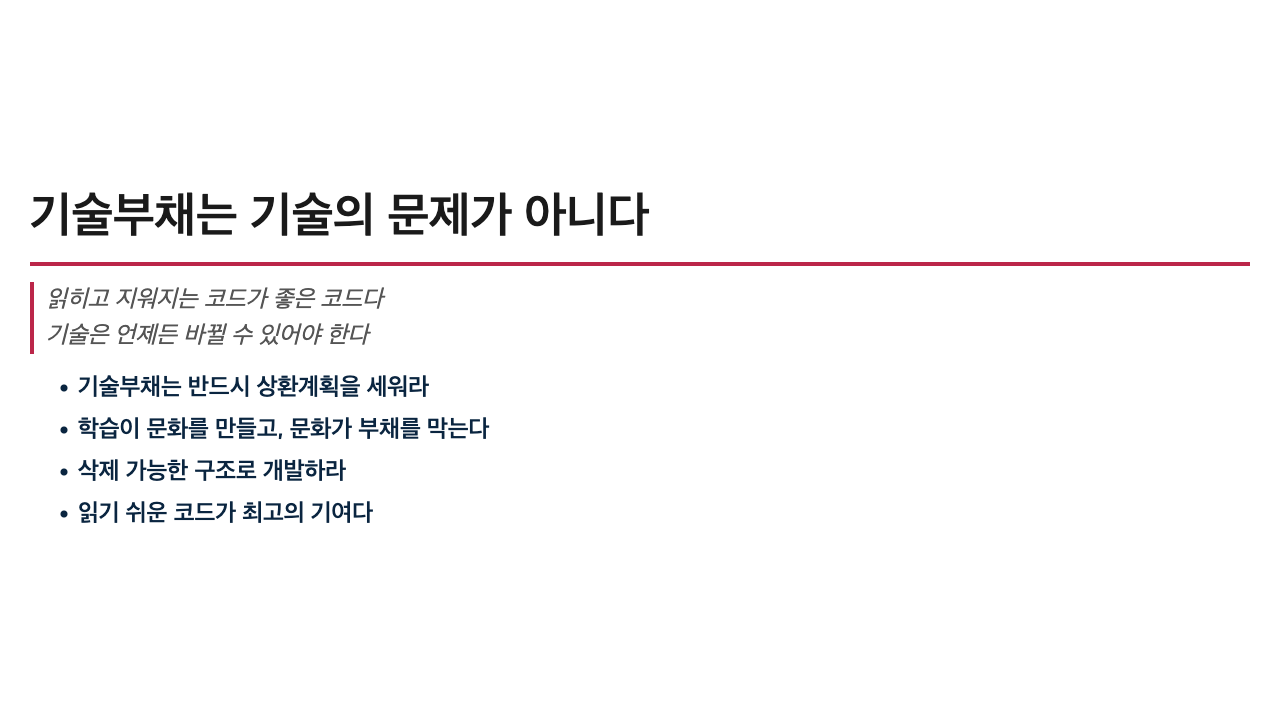
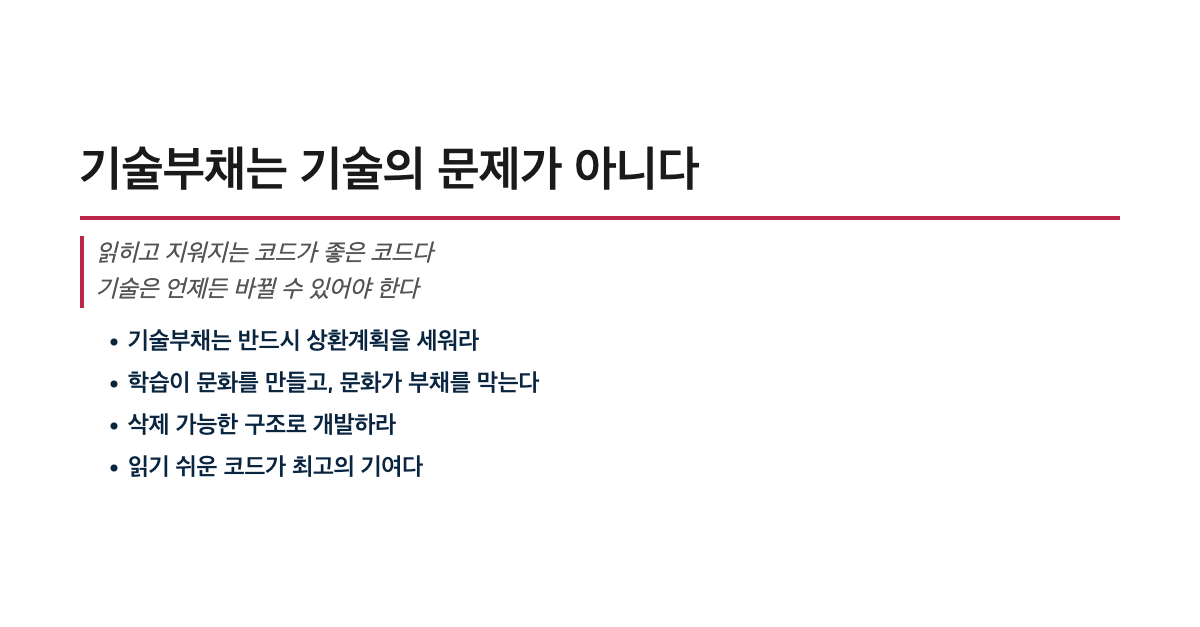
커버 테스트

Changed region(s): [[0.0, 0.2121, 0.9867, 0.4848], [0.0617, 0.5152, 0.4625, 0.7576]]

diff --git a/marp/theme.css b/marp/theme.css
@@ -10,7 +10,7 @@ section {
   color: #0A2540;
   font-family: 'Noto Sans KR', sans-serif;
   font-size: 24px;
-  padding: 30px; 
+  padding: 120px; 
 }
 
 h1 {
